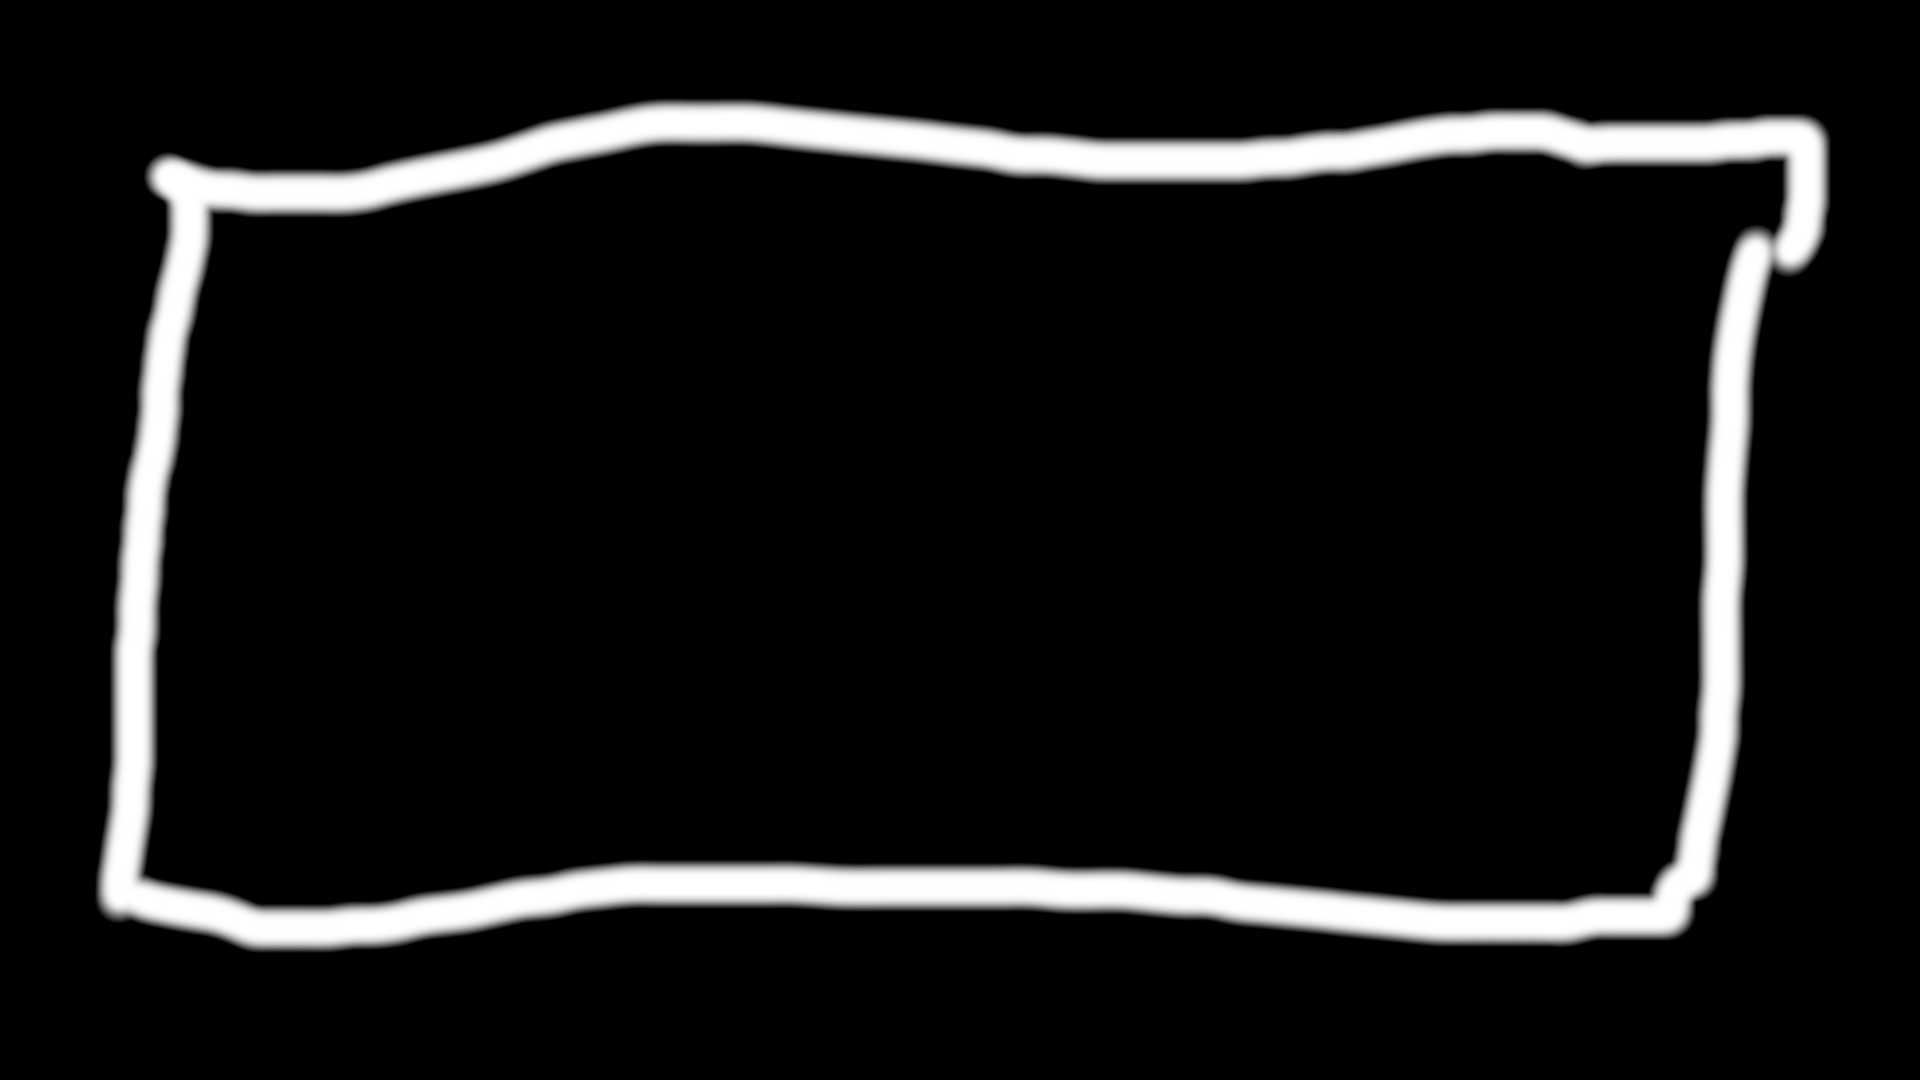
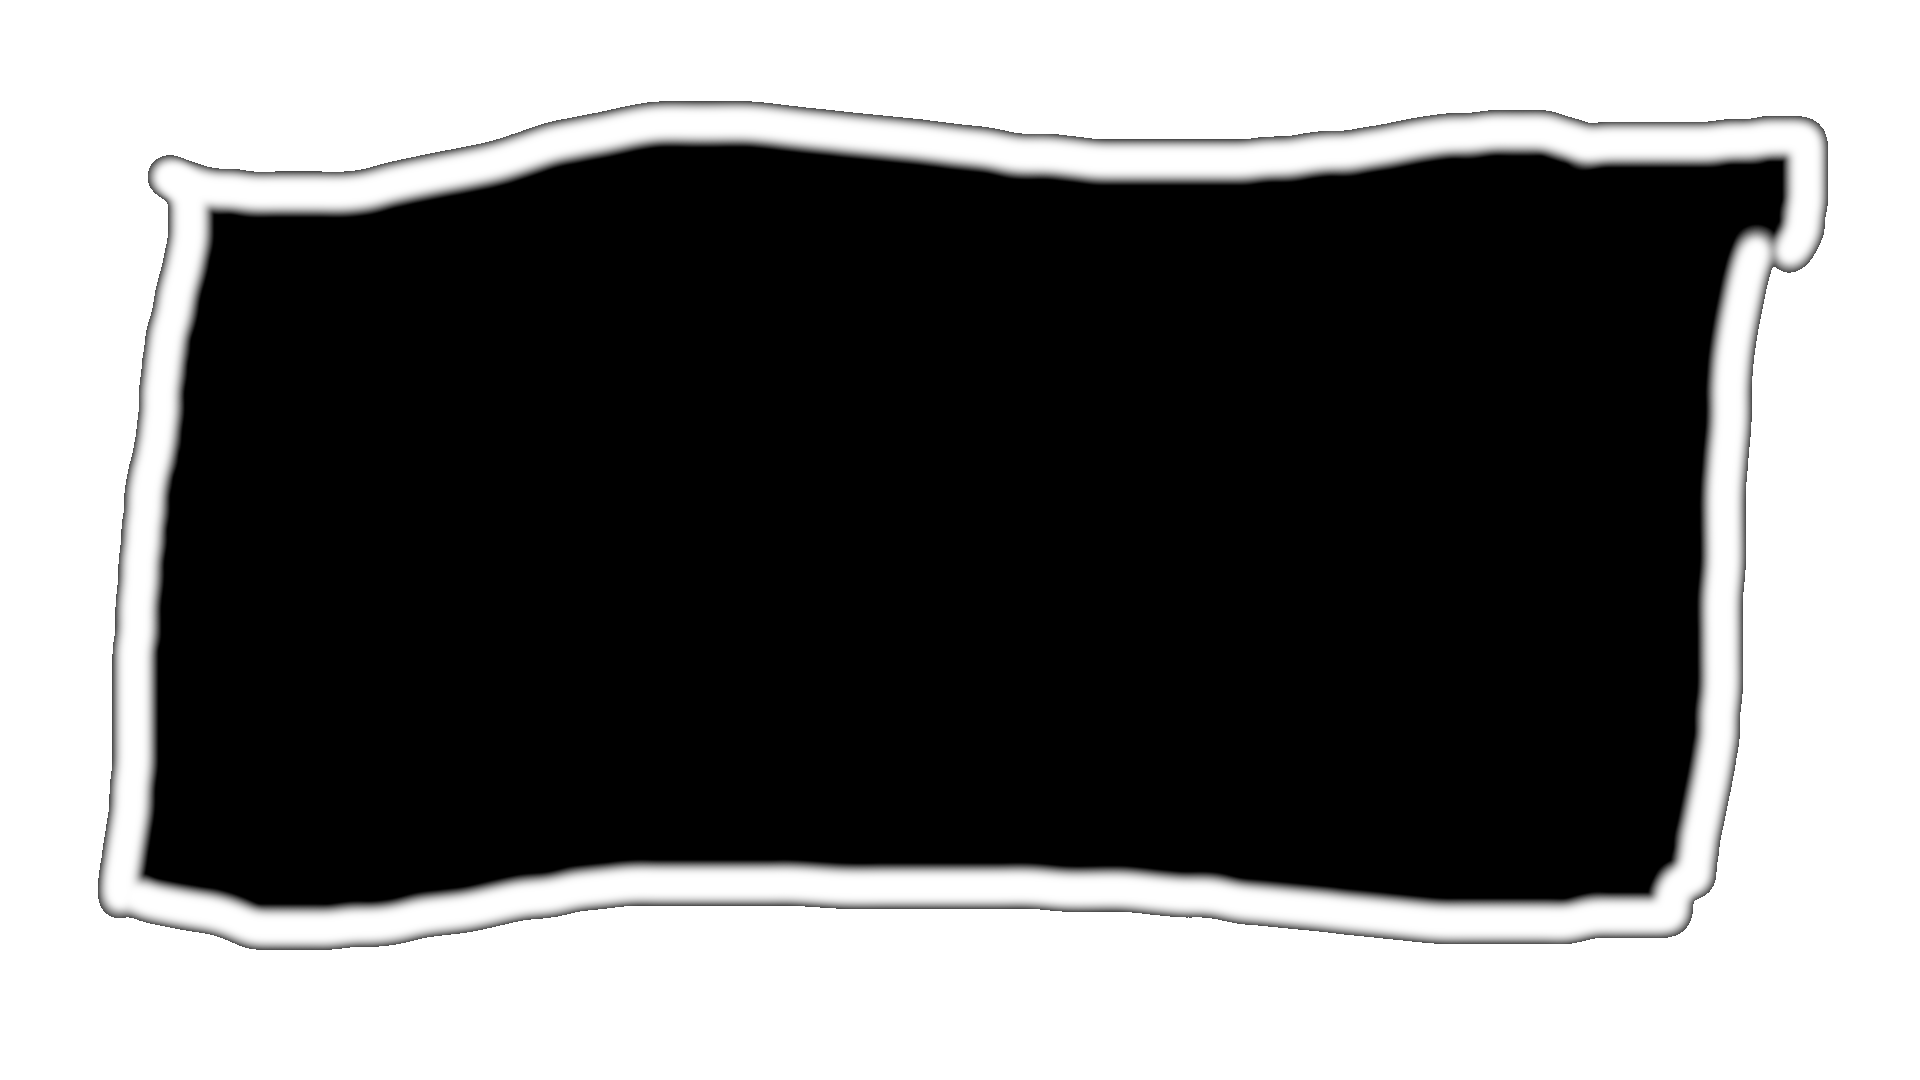
add non-functional load bar

diff --git a/src/scenes/main_scene.cpp b/src/scenes/main_scene.cpp
@@ -47,9 +47,9 @@ MS::MainScene::MainScene(SDL_Renderer *ren) :
     // mTtfText = TTF_CreateText(mTtfEngine, mFont, "Test Text", sizeof("Test Text") - 1);
 
     mBearzos->next = mBG;
-    mBG->next = mBoxes;
-    mBoxes->next = mPlayerArea;
-    mPlayerArea->next = mShop;
+    mBG->next = mPlayerArea;
+    mPlayerArea->next = mBoxes;
+    mBoxes->next = mShop;
     mShop->next = mJankBox;
     mJankBox->next = mGui;
 
@@ -90,13 +90,6 @@ MS::MainScene::MainScene(SDL_Renderer *ren) :
         .r = 0x28, .g = 0x28, .b = 0x28, .a = 0xff,
         .image = &boxImage,
     };
-    mBoxes->rects->next = new MS::Rectangle;
-    *mBoxes->rects->next = {
-        .x = 450, .y = 250,
-        .w = 100, .h = 100,
-        .r = 0x28, .g = 0x28, .b = 0x28, .a = 0xff,
-        .image = &boxImage,
-    };
 
     mJankBox->rects = new MS::Rectangle;
     *mJankBox->rects = {
@@ -111,7 +104,7 @@ MS::MainScene::MainScene(SDL_Renderer *ren) :
         .x = 25, .y = 50,
         .w = 100, .h = 100,
         .r = 0x00, .g = 0xFF, .b = 0xFF, .a = 0x5F,
-        .image = &mTestImage,
+        .image = &boxImage,
     };
     mShop->rects = unload_doll_button;
 
@@ -120,7 +113,7 @@ MS::MainScene::MainScene(SDL_Renderer *ren) :
         .x = 150, .y = 50,
         .w = 100, .h = 100,
         .r = 0x00, .g = 0xFF, .b = 0xFF, .a = 0x5F,
-        .image = &mTestImage,
+        .image = &boxImage,
     };
     mShop->rects->next = upgrade_button;
 
@@ -131,7 +124,7 @@ MS::MainScene::MainScene(SDL_Renderer *ren) :
         .x = 275, .y = 50,
         .w = 100, .h = 100,
         .r = 0x00, .g = 0xFF, .b = 0xFF, .a = 0x5F,
-        .image = &mTestImage,
+        .image = &boxImage,
     };
     mShop->rects->next->next = bottle_button;
 
@@ -140,29 +133,57 @@ MS::MainScene::MainScene(SDL_Renderer *ren) :
         .x = 400, .y = 50,
         .w = 100, .h = 100,
         .r = 0x00, .g = 0xFF, .b = 0xFF, .a = 0x5F,
-        .image = &mTestImage,
+        .image = &boxImage,
     };
     mShop->rects->next->next->next = load_doll_button;
 
     mGui->rects = new MS::Rectangle {
         .x = 10, .y = 502-50,
-        .w = 492, .h = 50,
+        .w = 196, .h = 50,
         .r = 0x77, .g = 0x77, .b = 0x77, .a = 0xFF,
         .image = nullptr,
     };
     mGui->rects->next = new MS::Rectangle {
         .x = 20, .y = 502-40 - 5,
-        .w = 492 - 20, .h = 50 - 10,
+        .w = 196 - 20, .h = 50 - 10,
         .r = 0x00, .g = 0x00, .b = 0x00, .a = 0xFF,
         .image = nullptr,
     };
 
     mGui->rects->next->next = new MS::Rectangle {
         .x = 20, .y = 502-40 - 5,
-        .w = int((492 - 20) * 0.0), .h = 50 - 10,
+        .w = int((196 - 20) * 0.0), .h = 50 - 10,
         .r = 0xff, .g = 0xff, .b = 0xff, .a = 0xFF,
         .image = nullptr,
     };
+
+    load_bar_bg = new MS::Rectangle;
+    *load_bar_bg = {
+        .x = 502-196, .y = 502 - 50,
+        .w = 196, .h = 50,
+        .r = 0x77, .g = 0x77, .b = 0x77, .a = 0x5F,
+        .image = nullptr,
+    };
+    mGui->rects->next->next->next = load_bar_bg;
+
+    load_bar_mg = new MS::Rectangle;
+    *load_bar_mg = {
+        .x = 492-176, .y =  502 - 45,
+        .w = 196-20, .h = 40,
+        .r = 0x00, .g = 0x00, .b = 0x00, .a = 0x5F,
+        .image = nullptr,
+    };
+    mGui->rects->next->next->next->next = load_bar_mg;
+
+    load_bar_fg = new MS::Rectangle;
+    *load_bar_fg = {
+        .x = 492-176, .y =  502 - 45,
+        .w = 0, .h = 40,
+        .r = 0xFF, .g = 0xFF, .b = 0xFF, .a = 0x5F,
+        .image = nullptr,
+    };
+    mGui->rects->next->next->next->next->next = load_bar_fg;
+    
 
     mPlayerArea->rects->next->x = (mPlayerArea->rects->w * (1 - player.x)) + mPlayerArea->rects->x;
     // mPlayerArea->rects->next->image = nullptr;
@@ -179,7 +200,7 @@ MS::Layer *MS::MainScene::frame() {
     pissing = kbState[SDL_SCANCODE_P];
     
     if (!pissing){
-        mBladderFilled += MS::dt / 45;
+        mBladderFilled += MS::dt / 25;
     } else {
         mBladderFilled -= MS::dt / 20;
         if (mBladderFilled < 0.0) {
@@ -193,7 +214,7 @@ MS::Layer *MS::MainScene::frame() {
             dead = true;
         }
     }
-    mGui->rects->next->next->w = int((492 - 20) * mBladderFilled);
+    if(mGui->rects->next->next->w < 176) mGui->rects->next->next->w = int((196 - 20) * mBladderFilled);
     bearzos.timeSinceBearzos += MS::dt;
     if (bearzos.timeSinceBearzos > bearzos.fluff_bearzos_countdown)
         bearzos_attack();
@@ -209,7 +230,7 @@ MS::Layer *MS::MainScene::frame() {
     }
     msX /= (float)divisor/512;
     msY /= (float)divisor/512;
-    
+
     if (kbState[SDL_SCANCODE_A] && !pissing) {
         mPlayerArea->rects->next->image = &playerImageNeutral;
         player.x += MS::dt;

diff --git a/src/scenes/main_scene.hpp b/src/scenes/main_scene.hpp
@@ -49,6 +49,9 @@ namespace Miserable {
             Rectangle *load_doll_button; 
             Rectangle *bottle_button; 
             Rectangle *upgrade_button;
+            Rectangle *load_bar_bg;
+            Rectangle *load_bar_mg;
+            Rectangle *load_bar_fg;
             bool held_down = false;
             int height = 512;
             int width = 512;
@@ -63,8 +66,8 @@ namespace Miserable {
             struct {
                 // All of these are 0 - 1;
                 float x = 0.f;
-                // Negative if not loading or unloading respectively;
-                float loadingProgress = -1.f, unloadingProgress = -1.f;
+                float loadingProgress = 0.f;
+                float loadingSpeed = 15;
                 size_t nLoadingDolls = 0;
                 size_t nUnloadingDolls = 0;
                 int hp = 100;
